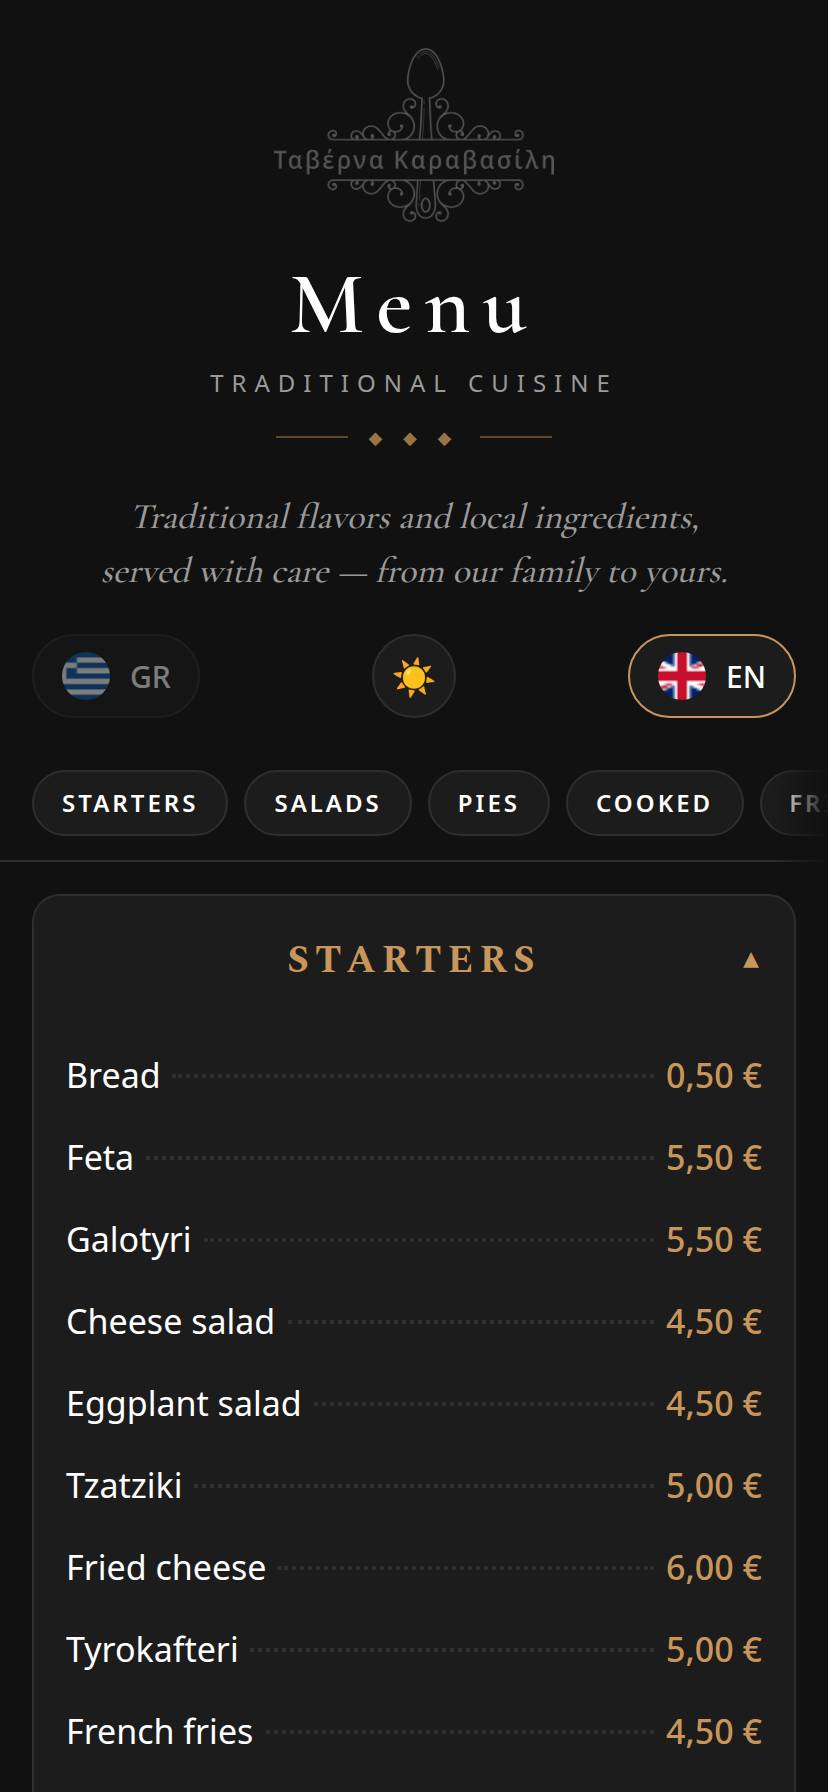
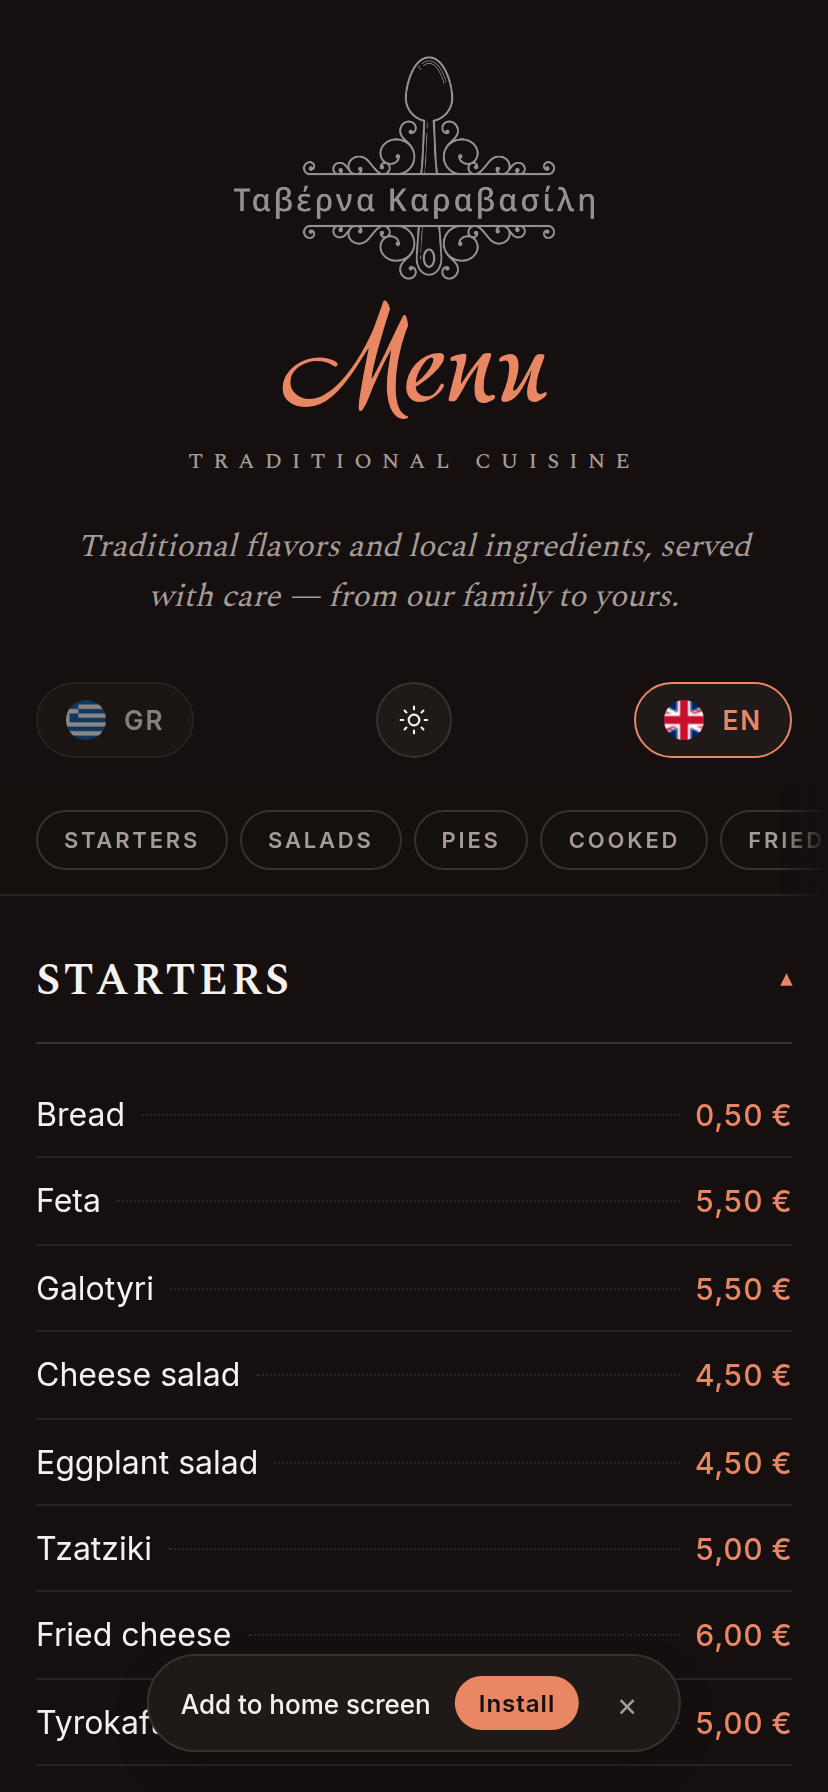
Refresh Taverna Karavasilis screenshots after menu redesign
The live menu moved from gold-on-dark to a warm cream theme with a
terracotta accent, sticky category bar and PWA install prompt.
Re-captured the 5 mobile shots and the 3-phone cover composite, and
updated the case study copy to describe the new palette.

diff --git a/projects/taverna-karavasilis/index.html b/projects/taverna-karavasilis/index.html
@@ -161,7 +161,7 @@
           <article class="feature reveal">
             <div class="feature-icon"><svg viewBox="0 0 24 24" fill="none" stroke="currentColor" stroke-width="2" stroke-linecap="round" stroke-linejoin="round" aria-hidden="true"><path d="M21 12.79A9 9 0 1 1 11.21 3 7 7 0 0 0 21 12.79z"/></svg></div>
             <h3>Light &amp; dark themes</h3>
-            <p>Gold-on-cream by day, gold-on-black by night — both lovingly crafted with serif type for that traditional feel.</p>
+            <p>Warm cream by day, deep charcoal by night — terracotta accent and serif type carry that traditional taverna feel either way.</p>
           </article>
           <article class="feature reveal">
             <div class="feature-icon"><svg viewBox="0 0 24 24" fill="none" stroke="currentColor" stroke-width="2" stroke-linecap="round" stroke-linejoin="round" aria-hidden="true"><line x1="3" y1="6" x2="21" y2="6"/><line x1="3" y1="12" x2="21" y2="12"/><line x1="3" y1="18" x2="21" y2="18"/></svg></div>
@@ -188,23 +188,23 @@
           <span class="section-divider" aria-hidden="true"></span>
         </div>
         <div class="gallery-grid">
-          <a class="gallery-item reveal" href="../../assets/projects/taverna/01-hero.png" data-caption="Hero — light theme, EN locale">
-            <img src="../../assets/projects/taverna/01-hero.png" alt="Hero — light theme, EN locale" loading="lazy" />
+          <a class="gallery-item reveal" href="../../assets/projects/taverna/01-hero.png" data-caption="Hero — light theme, English locale">
+            <img src="../../assets/projects/taverna/01-hero.png" alt="Hero — light theme, English locale" loading="lazy" />
             <span class="gallery-caption">Hero — light theme, EN locale</span>
           </a>
-          <a class="gallery-item reveal" href="../../assets/projects/taverna/02-starters.png" data-caption="Starters — scroll into the category">
-            <img src="../../assets/projects/taverna/02-starters.png" alt="Starters — scroll into the category" loading="lazy" />
-            <span class="gallery-caption">Starters — scroll into the category</span>
+          <a class="gallery-item reveal" href="../../assets/projects/taverna/02-starters.png" data-caption="Starters — sticky category bar follows the scroll">
+            <img src="../../assets/projects/taverna/02-starters.png" alt="Starters with sticky category bar" loading="lazy" />
+            <span class="gallery-caption">Starters — sticky category bar</span>
           </a>
-          <a class="gallery-item reveal" href="../../assets/projects/taverna/03-cooked.png" data-caption="Cooked dishes — accordion-style sections">
-            <img src="../../assets/projects/taverna/03-cooked.png" alt="Cooked dishes — accordion-style sections" loading="lazy" />
-            <span class="gallery-caption">Cooked dishes — accordion-style sections</span>
+          <a class="gallery-item reveal" href="../../assets/projects/taverna/03-cooked.png" data-caption="Cooked, fried &amp; grill — items priced or marked &quot;ask staff&quot;">
+            <img src="../../assets/projects/taverna/03-cooked.png" alt="Cooked, fried and grill sections" loading="lazy" />
+            <span class="gallery-caption">Cooked / fried / grill — long-form list</span>
           </a>
-          <a class="gallery-item reveal" href="../../assets/projects/taverna/04-dark.png" data-caption="Dark theme — gold-on-black">
-            <img src="../../assets/projects/taverna/04-dark.png" alt="Dark theme — gold-on-black" loading="lazy" />
-            <span class="gallery-caption">Dark theme — gold-on-black</span>
+          <a class="gallery-item reveal" href="../../assets/projects/taverna/04-dark.png" data-caption="Dark theme — terracotta on charcoal, same serif identity">
+            <img src="../../assets/projects/taverna/04-dark.png" alt="Dark theme — terracotta on charcoal" loading="lazy" />
+            <span class="gallery-caption">Dark theme — terracotta on charcoal</span>
           </a>
-          <a class="gallery-item reveal" href="../../assets/projects/taverna/05-greek.png" data-caption="Greek locale — Παραδοσιακή κουζίνα">
+          <a class="gallery-item reveal" href="../../assets/projects/taverna/05-greek.png" data-caption="Greek locale — Παραδοσιακή κουζίνα, ΟΡΕΚΤΙΚΑ / ΣΑΛΑΤΕΣ / ΠΙΤΕΣ">
             <img src="../../assets/projects/taverna/05-greek.png" alt="Greek locale — Παραδοσιακή κουζίνα" loading="lazy" />
             <span class="gallery-caption">Greek locale — Παραδοσιακή κουζίνα</span>
           </a>
